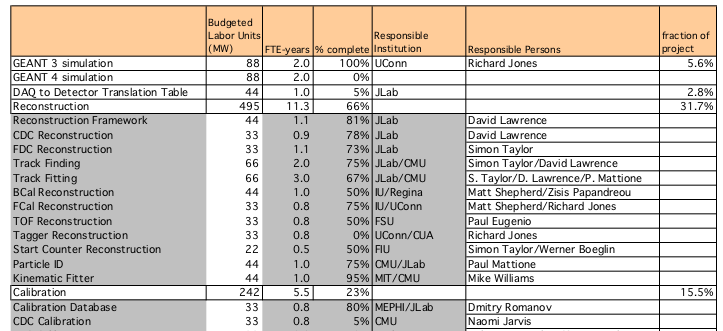
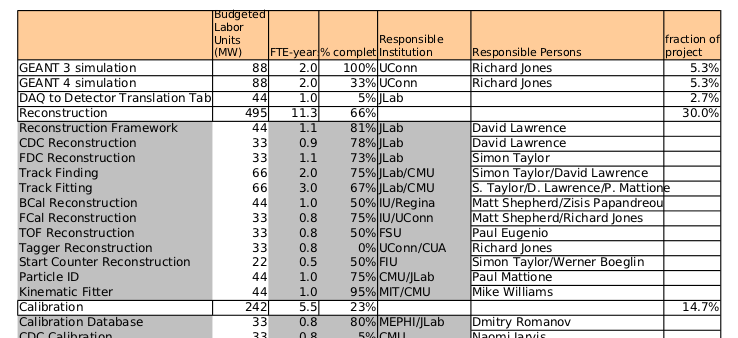
changes

diff --git a/software_review/software_overview_halld.tex b/software_review/software_overview_halld.tex
@@ -54,8 +54,8 @@
 \I<alert@3> punch cards: databases
 \ei
 \end{column}
-\begin{column}{3.0in}
-\includegraphics[width=3.0in]{overview_diagram.png}
+\begin{column}{3.5in}
+\includegraphics[width=3.5in]{DataFlow_simple.png}
 \end{column}
 \end{columns}
 }
@@ -116,49 +116,56 @@
 \end{columns}
 }
 
+\subsection{Data Formats}
+
 \againframe<2>{flow-diagram}
 
 \f{
 \ft{Serialized data formats}
-\bi
+
+\begin{columns}[c]
+\begin{column}{1.7in}
+\bi\scriptsize
 \I Raw data
-   \bi
+   \bi\scriptsize
    \I EVIO: CEBAF Online Data Acquisition (CODA) format
    \ei
 \I Simulated data
-   \bi
-   \I HDDM: Hall D Data Model
-   \I XML-like
-   \I compressed
-   \I each file contains complete description of elements, attributes
-      \bi
-      \I element/attribute names
-      \I data types
-      \I multiplicity info (exacly one, at least one, many)
-      \ei
+   \bi\scriptsize
+   \I HDDM: Hall D Data Model, self-documenting on two levels
+   \I compressed, XML-like
+   \I each file contains complete mini-schema
    \I support utilities for conversion
    \ei
-\I Reconstructed data
-   \bi
+\I DST data (reconstructed)
+   \bi\scriptsize
    \I HDDM
    \I others possible
    \ei
 \ei
+\end{column}
+\begin{column}{3.3in}
+\includegraphics[width=6.0in]{hddm_template.png}//
+\end{column}
+\end{columns}
 }
+
+\subsection{Databases}
 
 \againframe<3>{flow-diagram}
 
 \f{
 \ft{Databases}
 \bi
-\I Calibration Constants
+\I Calibration Constants Database (CCDB)
    \bi
+   \I developed by Hall D
+   \I in beta testing (Hall B is using it too)
    \I relational database
    \I standard look up by run
    \I hierarchical calibration type structure
    \I history kept, previous versions selectable at run time
    \I branches/private/tagged versions supported (with history)
-   \I developed, in beta (Hall B is using it too)
    \ei
 \I Other Database Applications
    \bi
@@ -179,24 +186,12 @@
 
 \f{
 \ft{Manpower Requirements and Project Progress}
-\small
-\begin{columns}[c]
-\begin{column}{1.5in}
-   \bi
-   \I required manpower for various tasks estimated
-   \I manpower already expended has been estimated
-   \I assignment of tasks to individuals
-   \ei
-\end{column}
-\begin{column}{2.0in}
-\includegraphics[width=2.0in]{OfflineComputingActivities2012.png}
-\end{column}
-\end{columns}
-}
-
-\f{
-\ft{Manpower Requirements, Example Items}
 \includegraphics[width=4.75in]{OfflineComputingActivities2012Zoom.png}
+\bi\small
+\I Complete task list with labor estimates and fraction completed
+\I Formerly tracked by 12 GeV Project Management team
+\I Total effort: 38 FTE-years, complete: 49\%
+\ei
 }
 
 \f{
@@ -248,8 +243,8 @@ Conclusion: match with level of effort required to finish requirements
    \I From detector to CODA EMU's to monitoring farm to online cache disk
    \I Over network to Tape Library in Computer Center
    \I Reconstruction on JLab batch farm, reduction of volume by factor of 10
-   \I Reconstructed data written to Tape Library: some fraction live on disk
-   \I DST's in several streams produced: large fraction live on disk
+   \I Resulting DST data written to Tape Library: some fraction live on disk
+   \I mini-DST's in several streams produced: large fraction live on disk
    \I Similiar scenario for Monte Carlo except ``raw'' Monte Carlo not kept
    \I Analysis engines access this data:
       \bi
@@ -420,7 +415,7 @@ Total & 9 & 1000 & 8 \\
 
 \bi
 \I Plans only
-\I Simulate raw data to DST chain on a large scale
+\I Simulate raw data to mini-DST chain on a large scale
    \bi
    \I Need to develop job management tools
    \ei
@@ -488,12 +483,11 @@ Total & 9 & 1000 & 8 \\
 2 & deploy translation database & 2012-09-01 \\
 3 & complete raw data format specification & 2012-10-01 \\
 4 & complete specification of reconstructed data format & 2012-10-15 \\
-5 & data challenge: simulated raw data to reconstructed data (one day at $10^7~\gamma/s$) & 2012-12-01 \\
-6 & complete DST writer & 2013-02-01 \\
-7 & create DST data samples from data challenge events & 2013-03-01 \\
+5 & data challenge: simulated raw data to DST data (one day at $10^7~\gamma/s$) & 2012-12-01 \\
+6 & complete mini-DST writer & 2013-02-01 \\
+7 & create mini-DST data samples from data challenge events & 2013-03-01 \\
 8 & amplitude analysis & 2013-04-01 \\
 9 & documentation complete & 2013-06-15 \\
-10 & full software chain & 2013-08-15 \\
 \end{tabular}
 }
 
